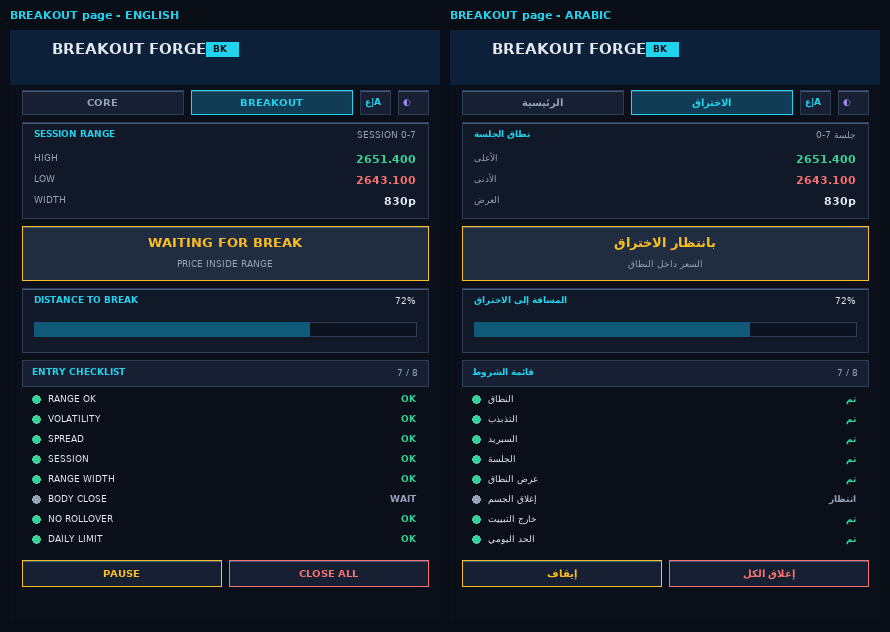
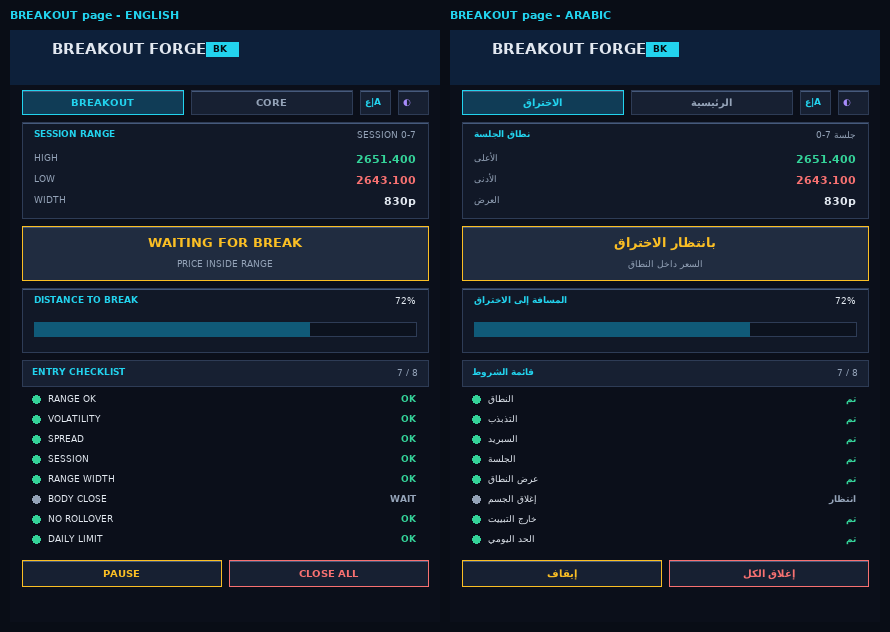
Breakout Forge: open the panel on BREAKOUT, not CORE
The HUD started on CORE, so the page describing the engine the EA is named
after was always one click away.

- New BK_HUD_PAGE enum + HudStartPage input, defaulting to BK_PAGE_BREAKOUT.
- gHudPage is seeded from it in OnInit and its own initialiser is now 1, so
  the very first paint is already the breakout page (page height is derived
  per-paint from gHudPage, so no init-ordering issue).
- The enum is MAPPED, not cast: it is ordered BREAKOUT-first for the dropdown
  while the internal numbering stays 0=core/1=breakout. A cast would invert.
- BREAKOUT is now the leftmost tab; an active tab in the second slot reads as
  a mis-render. Nav row still fits (last square ends 418 <= 418).
- verify_breakout section 8: 8 new checks pinning the default, the seeding,
  the no-cast rule and the tab order. render_breakout_page updated.
- Presets regenerated at 100 params. All 18 verifiers pass; PRO untouched.

Changed region(s): [[0.5157, 0.1203, 0.9101, 0.1804], [0.0, 0.1203, 0.3944, 0.1804]]

diff --git a/docs/verify_breakout.py b/docs/verify_breakout.py
@@ -447,6 +447,26 @@ print("\n8. the new page")
 check("two tabs: CORE and BREAKOUT",
       '"TAB_CORE"' in BK and '"TAB_BREAKOUT"' in BK and '"TAB_FILTERS"' not in BK)
 check("BREAKOUT tab is handled on click", 'hit == "TAB_BREAKOUT"' in BK)
+
+# The panel must OPEN on the breakout page - that is the reason the EA exists.
+check("start page is an input, not a hardcoded constant",
+      "enum BK_HUD_PAGE" in BK and
+      re.search(r'^input\s+BK_HUD_PAGE\s+HudStartPage', BK, re.M) is not None)
+check("it defaults to BREAKOUT",
+      re.search(r'HudStartPage\s*=\s*BK_PAGE_BREAKOUT', BK) is not None)
+check("the global is seeded from it in OnInit",
+      "gHudPage = (HudStartPage == BK_PAGE_CORE) ? 0 : 1;" in BK)
+check("the global's own initialiser is the breakout page too",
+      re.search(r'^int\s+gHudPage = 1;', BK, re.M) is not None)
+check("the enum is mapped, never cast (its order is for the dropdown)",
+      re.search(r'gHudPage\s*=\s*\(int\)HudStartPage', BK) is None)
+# ...and the active tab must be the leftmost one, not the second
+_tabs = re.search(r'DrawButton\(pad,\s*\n?\s*y, tabW2[^;]*?"(TAB_\w+)"', BK, re.S)
+check("BREAKOUT is the leftmost tab", _tabs is not None and _tabs.group(1) == "TAB_BREAKOUT")
+check("CORE is the second tab",
+      re.search(r'DrawButton\(pad \+ tabW2 \+ SC\(8\),\s*y, tabW2[^;]*?"TAB_CORE"', BK, re.S) is not None)
+check("both tabs still highlight off the same global",
+      BK.count("gHudPage == 1, TAccent") == 1 and BK.count("gHudPage == 0, TAccent") == 1)
 check("breakout page has its own computed height", "if(gHudPage == 1)" in BK)
 check("CORE panel shows breakout status, not filter agreement",
       'T("BREAKOUT STATUS")' in BK and 'T("FILTER AGREEMENT")' not in BK)

diff --git a/docs/render_breakout_page.py b/docs/render_breakout_page.py
@@ -33,9 +33,10 @@ def draw(lang):
     y=headerH+SC(6)
     # tabs
     sqW=SC(30); tabW3=(innerW-SC(8)*3-sqW*2)//2
-    names=[T("CORE","الرئيسية"),T("BREAKOUT","الاختراق")]
+    # BREAKOUT is leftmost and is the page the panel opens on.
+    names=[T("BREAKOUT","الاختراق"),T("CORE","الرئيسية")]
     for i,nm in enumerate(names):
-        x=pad+i*(tabW3+SC(8)); act=(i==1)
+        x=pad+i*(tabW3+SC(8)); act=(i==0)
         plate(x,y,tabW3,SC(24),(16,60,86) if act else PB2,CY if act else EDGE)
         d.text((x+(tabW3-d.textlength(nm,font=f(10,True)))/2,y+6),nm,font=f(10,True),fill=CY if act else DIM)
         boxes.append((x,y,x+tabW3,y+SC(24),"tab%d"%i))

diff --git a/README.md b/README.md
@@ -1422,6 +1422,21 @@ The middle column is the whole point of the design.
   Fewer trades, better fills, tighter stops. Times out after `RetestMaxBars`,
   and a close back through the level kills the setup rather than arming it.
 
+## v1.05b — the panel opens on BREAKOUT
+
+The HUD used to start on CORE, which meant the page describing the engine this
+EA is named after was one click away every single load. `HudStartPage` now
+selects the opening tab and defaults to `BK_PAGE_BREAKOUT`, and **BREAKOUT is
+also the leftmost tab** — an active tab sitting in the second slot looks like
+a mis-render. Set `HudStartPage = BK_PAGE_CORE` to restore the old view.
+
+The enum is *mapped* to the internal page index in `OnInit()` rather than cast,
+because the enum is ordered for how it reads in the dropdown (BREAKOUT first)
+while the internal numbering stays `0 = core, 1 = breakout`. Casting would
+silently invert the pages.
+
+---
+
 ## v1.05 — LOT-FIRST risk: your lot is honoured, the **stop** is capped
 
 Two complaints, one root cause, opposite symptoms:
